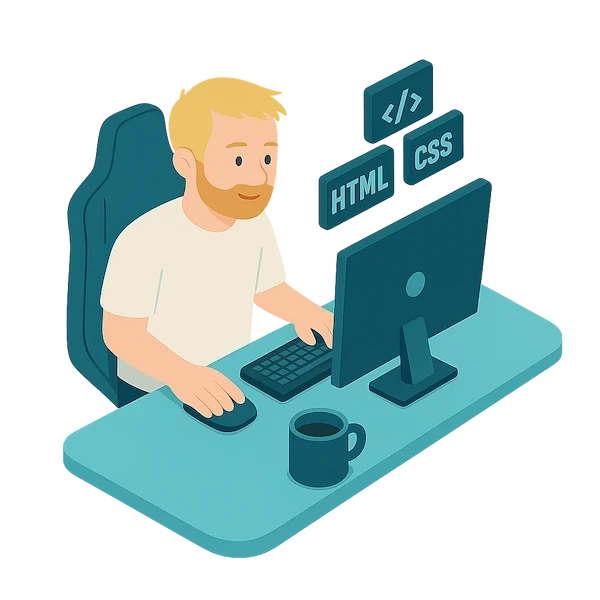
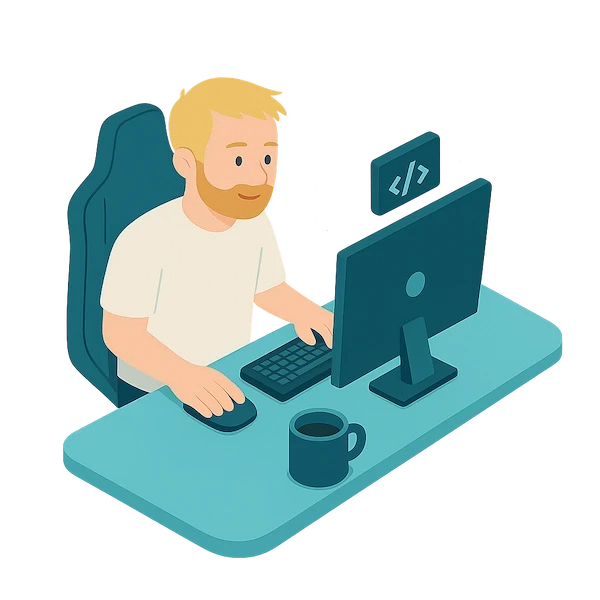
add easter egg

Changed region(s): [[0.51, 0.09, 0.78, 0.39]]

diff --git a/index.html b/index.html
@@ -84,7 +84,8 @@
                         </div>
                     </div>
                     <div class="hero-visual">
-                        <img src="assets/images/luca.webp" width="600" height="600" alt="Photo de profil de Luca De Chiara, développeur web">
+                        <img class="hero-img-light" src="assets/images/luca.webp" width="600" height="600" alt="Photo de profil de Luca De Chiara, développeur web">
+                        <img class="hero-img-dark" src="assets/images/withoutluca.webp" width="600" height="600" alt="Bureau sans Luca" loading="lazy">
                     </div>
                 </div>
             </div>

diff --git a/style.css b/style.css
@@ -312,8 +312,31 @@ main section {
   padding: 4rem 2rem;
 }
 
-.dark-mode .hero {
-  filter: invert(1);
+.dark-mode .hero-text h1,
+.dark-mode .hero-text p {
+  color: var(--color-text);
+}
+
+.dark-mode .btn-primary {
+  background: var(--color-text);
+  color: var(--color-bg);
+}
+
+.dark-mode .btn-secondary {
+  color: var(--color-text);
+  border-color: var(--color-text);
+}
+
+.hero-img-dark {
+  display: none;
+}
+
+.dark-mode .hero-img-light {
+  display: none;
+}
+
+.dark-mode .hero-img-dark {
+  display: block;
 }
 
 .hero-content {
